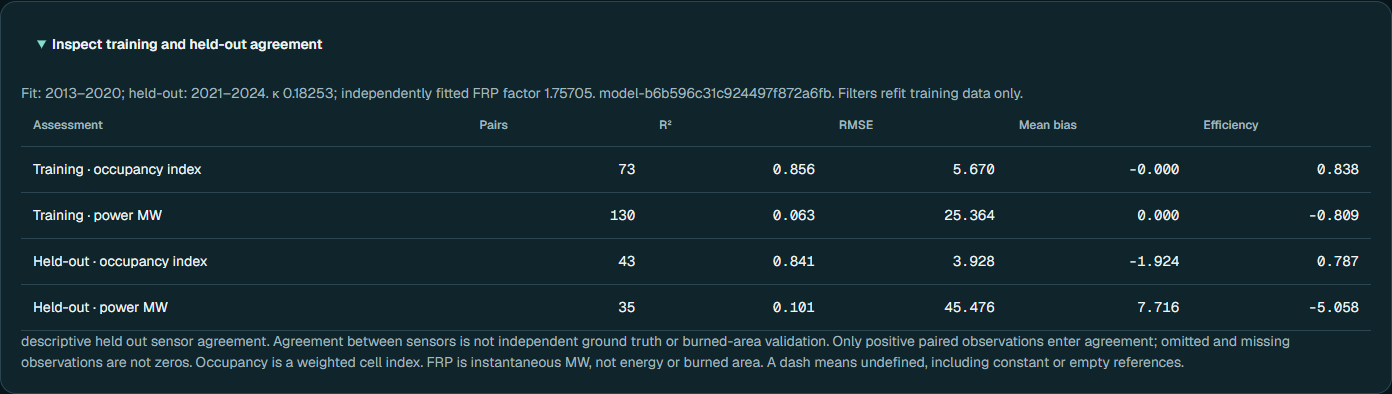
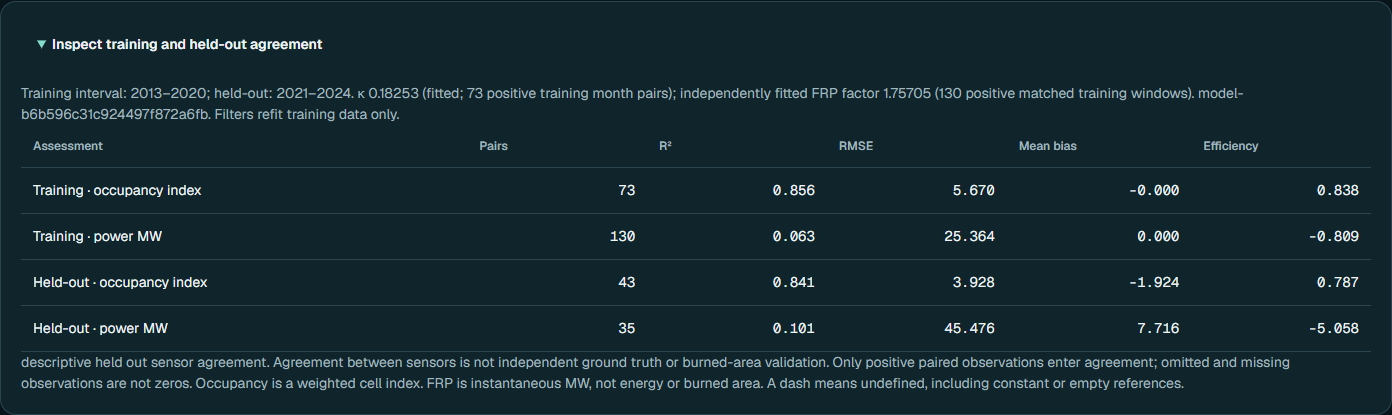
docs: record final judging verification and review resolutions

diff --git a/docs/judging/verification.md b/docs/judging/verification.md
@@ -1,6 +1,6 @@
 # Local verification record
 
-November 15, 2026, Asia/Saigon. Application checkpoint: `8cae9ae` on
+November 15, 2026, Asia/Saigon. Application and review-fix checkpoint: `c7d0b40` on
 `codex/firetrace-upgrade`; this record's commit also contains the presentation,
 packaging and regenerated examples tested in the same working tree. No merge,
 push, visibility change or deployment was performed for this judging package.
@@ -12,7 +12,7 @@ build were not exercised in this verification.
 
 | Check | Actual result | Retained evidence |
 |---|---|---|
-| `python -m unittest discover -s tests -v` | **165 tests PASS**, 427.150 s | [Complete output](results/unittest.txt) |
+| `python -m unittest discover -s tests -v` | **166 tests PASS**, 361.602 s | [Complete output](results/unittest.txt) |
 | `python judge.py` | **7/7 PASS** | [Judge output](results/judge.txt) |
 | `python smoke_test.py` | **3/3 PASS**, HTTP trap bench **12/12** | [Smoke output](results/smoke.txt) |
 | `python -m pip check` | No broken requirements | [Environment metadata](results/environment.json) |
@@ -62,7 +62,7 @@ accessibility/usability study. File identities are in [screenshot metadata](resu
 | Immutable case workflow and portable proof | Case API/CLI, full AOI/source/policy retention, tamper tests, six browser downloads, extracted verification and exact JSON replay |
 | Manager task within five views | Separate NASA entry, three steps, source labels, same-snapshot brief, receipt/ZIP links, mobile/keyboard browser proof |
 | Judging/presentation/release preparation | English submission and slides, Vietnamese notes, dated rubric evidence matrix, source/AI/font/dependency credits, Apache-2.0 and deterministic local ZIP builder |
-| Independent final review | Review outcome is recorded below after the fresh read-only review; any required fixes receive a regression and renewed checks |
+| Independent final review | [One fresh read-only review](review.md) identified three issues; all were reproduced and fixed, then the complete 166-test suite passed. No minor findings deferred |
 
 ## Execution decisions and practical limits
 

diff --git a/docs/superpowers/plans/2026-11-15-judging-evidence.md b/docs/superpowers/plans/2026-11-15-judging-evidence.md
@@ -109,8 +109,8 @@
 - [x] Record actual held-out results, including negative/undefined outcomes; data/source/tool/AI credits and proposed Apache-2.0 license. Verify actual dependency/font licensing references. Do not claim real-user testing or public accessibility that was not established.
 - [x] Test packet contents, repeat byte equality, source/evidence manifests, local links, all required narrative sections and exclusions; create/review the local handoff ZIP.
 - [x] Regenerate schemas/design/examples where affected. Run the complete unit/HTTP/browser suite, judge, smoke, all current receipt verifiers, determinism checks and artifact checks. Save authoritative outputs and screenshots with revision/environment.
-- [ ] Apply fresh independent Standards/Spec review to the entire goal delta from `b9a8815`, fix demonstrated defects, and rerun affected checks. Review rendered actual-case flow independently where available.
-- [ ] Map every spec requirement and each judging criterion to actual proof; report remaining external limits. Commit completion evidence and confirm clean worktree. Do not publish or deploy.
+- [x] Apply fresh independent Standards/Spec review to the entire goal delta from `b9a8815`, fix demonstrated defects, and rerun affected checks. Review rendered actual-case flow independently where available.
+- [x] Map every spec requirement and each judging criterion to actual proof; report remaining external limits. Commit completion evidence and confirm clean worktree. Do not publish or deploy.
 
 ## Execution and self-review
 

diff --git a/docs/judging/README.md b/docs/judging/README.md
@@ -28,6 +28,8 @@ Create `logs` first for CLI output. Extracted audit ZIPs include `verify.py` and
 standard-library modules; verification needs no third-party packages. Analysis
 replay needs the declared application dependencies. The submission ZIP is a
 local source/evidence handoff, not an upload. Its manifest lists file hashes.
+Run the packaging command from a Git checkout: it selects tracked source files.
+The extracted bundle can run the analysis and verifier without Git.
 
 The repository was private when reviewed. Public links, actual submission,
 repository visibility and deployment remain owner-controlled steps. Confirm the

diff --git a/docs/judging/review.md b/docs/judging/review.md
@@ -13,7 +13,7 @@ evidence. Its assessment was **with fixes**, with three actionable issues:
 
 All three were reproduced as failing tests before the repairs. The packet
 regression also first failed when `.gitattributes` was excluded. The complete
-suite is rerun after this single fix pass, with results retained in
+suite was rerun after this single fix pass: **166 tests PASS** (361.602 s), with results retained in
 [verification](verification.md). No second review is substituted for those
 regressions and the full suite. No minor findings were deferred.
 

diff --git a/docs/superpowers/specs/2026-11-15-judging-evidence-design.md b/docs/superpowers/specs/2026-11-15-judging-evidence-design.md
@@ -1,6 +1,6 @@
 # FireTrace: judging evidence and forest-manager workflow
 
-Status: approved by the user in Q7 on November 15, 2026, after builder review.
+Status: approved in Q7 and implemented on November 15, 2026. Independent review findings were reproduced and fixed; [completion evidence](../../judging/verification.md) records the final checks.
 Date: November 15, 2026. Target: ready before **23:00 Asia/Saigon** today.
 Starting implementation revision: `e3c1670` on `codex/firetrace-upgrade`.
 
